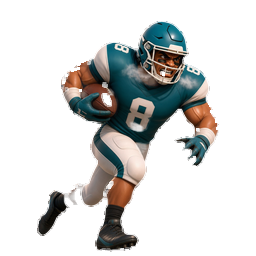
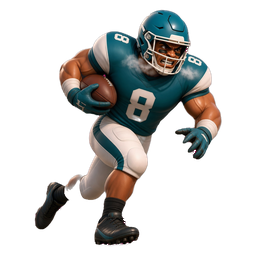
Fix EZ wordmark orientation, clean sprites, scale player, field detail
- Far EZ wordmark 180° in texture so it reads upright from gameplay camera; near EZ wordmark added
- flipY=true to match texture authorship (top=near, bottom=far)
- rembg cutouts with despill/alpha erosion; strip pink fringe
- Sprite ~1.85 yd with circle under feet; thin on-field LOS/FD only
- Grass striping, pale TB midfield logo, benches, both goalposts
- run_n 6-frame cycle

Changed region(s): [[0.125, 0.0312, 0.875, 1.0]]

diff --git a/main.js b/main.js
@@ -13,8 +13,8 @@ const FIELD_HALF_LEN = YARDS.length / 2;
 const FIELD_HALF_W = YARDS.width / 2;
 
 // Sprite world height ~2.2 yards (player ~2 yd tall); width matched to square frames
-const SPRITE_H = 2.35;
-const SPRITE_W = 2.35;
+const SPRITE_H = 1.85;
+const SPRITE_W = 1.85;
 
 const keys = new Set();
 window.addEventListener('keydown', (e) => {
@@ -28,6 +28,14 @@ startBtn.addEventListener('click', () => { titleEl.style.display = 'none'; playi
 if (new URLSearchParams(location.search).has('autoplay')) {
   titleEl.style.display = 'none'; playing = true;
 }
+if (new URLSearchParams(location.search).has('nearfar')) {
+  titleEl.style.display = 'none'; playing = true;
+  // snap after load
+  window.addEventListener('load', () => { setTimeout(() => { if (window.__tb) { window.__tb.player.z = 42; window.__tb.player.x = 0; } }, 100); });
+}
+const __topdown = new URLSearchParams(location.search).has('topdown');
+let __qaCam = null;
+
 
 const renderer = new THREE.WebGLRenderer({ canvas, antialias: true, powerPreference: 'high-performance' });
 renderer.setPixelRatio(Math.min(devicePixelRatio, 2));
@@ -67,8 +75,8 @@ function makeBench(x, z, lenAlongZ) {
 }
 
 function makeField() {
-  const tex = loader.load('./field_texture.jpg');
-  tex.flipY = false;
+  const tex = loader.load('./field_texture.jpg?v=ez180');
+  tex.flipY = true;
   tex.colorSpace = THREE.SRGBColorSpace;
   tex.anisotropy = Math.min(8, renderer.capabilities.getMaxAnisotropy());
   // NO UV Y-flip — texture is authored with image top = near (−Z), bottom = far (+Z)
@@ -147,7 +155,7 @@ function makeField() {
 const { los, fd } = makeField();
 
 // Selection circle — sized for ~2 yd player, centered under feet
-const CIRCLE_R = 0.72;
+const CIRCLE_R = 0.55;
 const playerCircle = new THREE.Mesh(
   new THREE.RingGeometry(CIRCLE_R * 0.82, CIRCLE_R, 48),
   new THREE.MeshBasicMaterial({ color: 0x2299ff, transparent: true, opacity: 0.9, side: THREE.DoubleSide, depthWrite: false })
@@ -331,6 +339,17 @@ function updatePlayer(dt) {
 }
 
 function updateCamera(dt) {
+  if (__topdown) {
+    if (!__qaCam) {
+      const fr = 65;
+      const aspect = innerWidth / innerHeight;
+      __qaCam = new THREE.OrthographicCamera(-fr * aspect, fr * aspect, fr, -fr, 0.5, 300);
+      __qaCam.position.set(0, 150, 0);
+      __qaCam.up.set(0, 0, 1);
+      __qaCam.lookAt(0, 0, 0);
+    }
+    return;
+  }
   camera.up.set(0, 1, 0);
   const ideal = new THREE.Vector3(player.x * 0.15, 14.5, player.z - 16);
   camera.position.lerp(ideal, 1 - Math.pow(0.001, dt));
@@ -353,7 +372,7 @@ function frame(now) {
   last = now; frames++; fpsT += dt;
   if (fpsT >= 0.5) { fpsEl.textContent = `${Math.round(frames / fpsT)} fps`; frames = 0; fpsT = 0; }
   updatePlayer(dt); updateCamera(dt); syncMeshes();
-  renderer.render(scene, camera);
+  renderer.render(scene, __topdown && __qaCam ? __qaCam : camera);
   requestAnimationFrame(frame);
 }
 requestAnimationFrame(frame);
